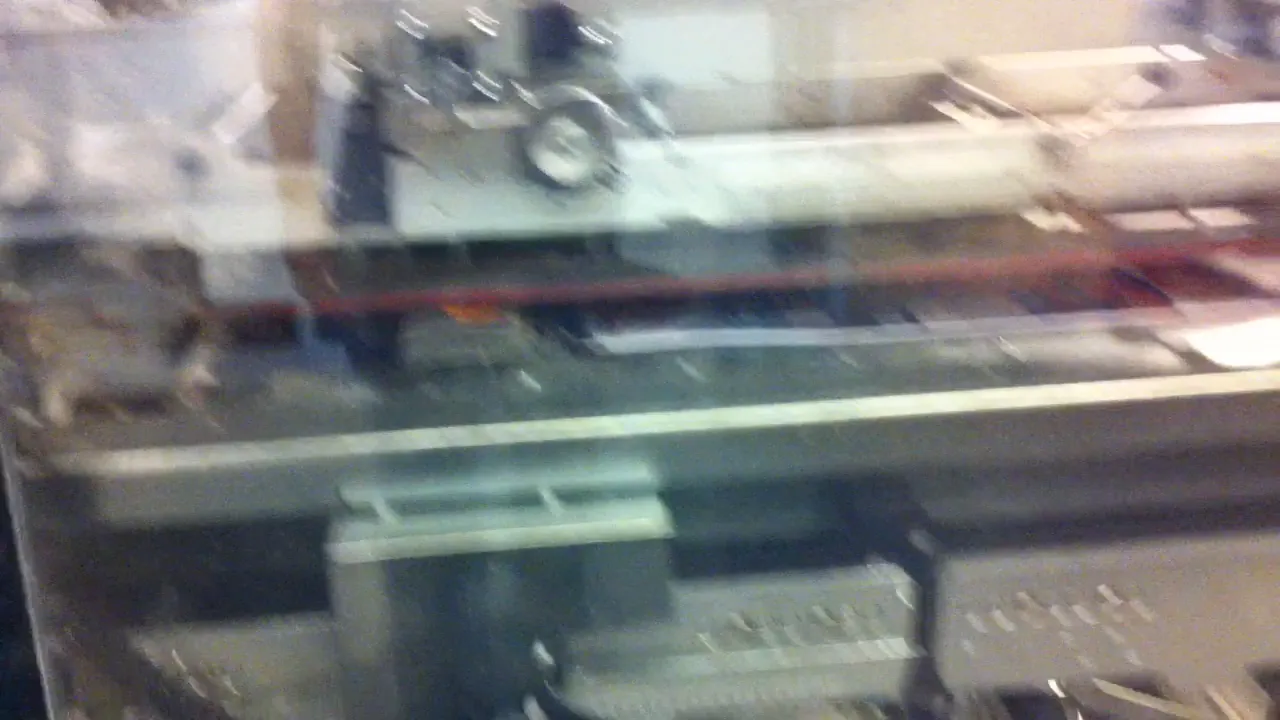
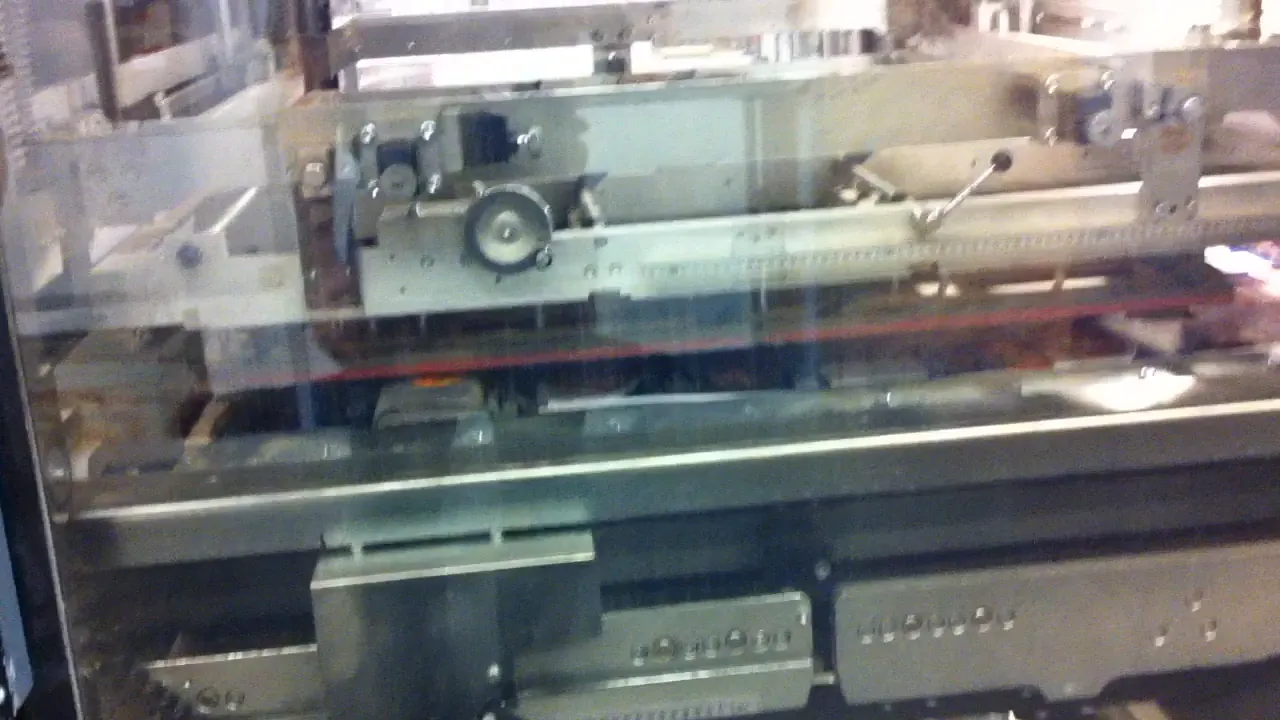
Fix: gate the hero pin to desktop and sharpen the poster frame
Pins are desktop-only now; under 768px motion.js never starts the
ScrollTrigger pin and motion.css never hides a data-step, so phones
without reduced-motion get the three proofs as a static stacked list
under the headline instead of the pinned overlay. The poster frame
moved from the loop's 39s start (motion-blurred, handheld footage) to
41s, the sharpest frame in the 39-47s window by Laplacian variance.

diff --git a/assets/motion.css b/assets/motion.css
@@ -6,10 +6,12 @@ html.motion [data-reveal] { opacity: 0; transform: translateY(24px); }
 html.motion [data-reveal="stagger"] { opacity: 1; transform: none; }
 html.motion [data-reveal="stagger"] > * { opacity: 0; transform: translateY(24px); }
 html.motion [data-count] { font-variant-numeric: tabular-nums; }
-html.motion [data-step] { opacity: 0; transform: translateY(30px); }
+@media (min-width: 768px) { html.motion [data-step] { opacity: 0; transform: translateY(30px); } }
 
 /* The cinematic hero. Without html.motion it is a tall photo hero with the
-   three proofs listed under the headline. */
+   three proofs listed under the headline. Pins are desktop-only (motion.js
+   skips them under 768px too), so under that width nothing here hides a
+   step -- phones always get the static stacked layout. */
 .hero-cinema { min-height: 100svh; align-items: center; }
 .hero-media { position: absolute; inset: -8% 0; overflow: hidden; }
 .hero-media .hero-bg, .hero-media .hero-video { position: absolute; inset: 0; width: 100%; height: 100%; object-fit: cover; }
@@ -22,6 +24,8 @@ html.motion .hero-media .hero-video { opacity: 1; }
 .hero-step h2 { color: #fff; }
 .hero-step p { color: #E6DDD1; font-size: 1.1rem; }
 .hero-step .eyebrow { color: var(--gold); }
-html.motion .hero-steps { position: absolute; inset: 0; display: grid; place-items: center; padding: 0 var(--gutter); pointer-events: none; }
-html.motion .hero-step { grid-area: 1 / 1; text-align: center; }
-@media (max-width: 767px) { .hero-media { inset: 0; } html.motion .hero-step { text-align: left; } }
+@media (min-width: 768px) {
+  html.motion .hero-steps { position: absolute; inset: 0; display: grid; place-items: center; padding: 0 var(--gutter); pointer-events: none; }
+  html.motion .hero-step { grid-area: 1 / 1; text-align: center; }
+}
+@media (max-width: 767px) { .hero-media { inset: 0; } }

diff --git a/about/index.html b/about/index.html
@@ -25,7 +25,7 @@
 <link rel="stylesheet" href="https://fonts.googleapis.com/css2?family=Barlow+Semi+Condensed:wght@500;600;700&family=Inter:wght@400;500;600&display=swap">
 <link rel="stylesheet" href="/assets/site.css?v=7b32dc09">
 <link rel="stylesheet" href="/assets/forms.css?v=53fdd355">
-<link rel="stylesheet" href="/assets/motion.css?v=e68b6b9c">
+<link rel="stylesheet" href="/assets/motion.css?v=392790e9">
 <script>document.documentElement.classList.add("js");window.FORM_ENDPOINT="";window.CONTACT_EMAIL="russell@phoenixautomationsolutions.example";if(/[?&]notes\b/.test(location.search))document.documentElement.classList.add("notes");if(matchMedia("(prefers-reduced-motion: no-preference)").matches)document.documentElement.classList.add("motion")</script>
 </head>
 <body>
@@ -114,6 +114,6 @@
 
 <script src="/assets/nav.js?v=ce182b56" defer></script>
 <script src="/assets/forms.js?v=f34a02c9" defer></script>
-<script>(function(h){if(!h.classList.contains("motion"))return;function off(){h.classList.remove("motion")}["/assets/vendor/gsap.min.js?v=bf3fd8ec","/assets/vendor/ScrollTrigger.min.js?v=5445d0e9","/assets/motion.js?v=d5f51273"].forEach(function(s){var e=document.createElement("script");e.src=s;e.async=false;e.onerror=off;document.body.appendChild(e)});setTimeout(function(){if(!window.__motionReady)off()},4000)})(document.documentElement)</script>
+<script>(function(h){if(!h.classList.contains("motion"))return;function off(){h.classList.remove("motion")}["/assets/vendor/gsap.min.js?v=bf3fd8ec","/assets/vendor/ScrollTrigger.min.js?v=5445d0e9","/assets/motion.js?v=29eb9d4e"].forEach(function(s){var e=document.createElement("script");e.src=s;e.async=false;e.onerror=off;document.body.appendChild(e)});setTimeout(function(){if(!window.__motionReady)off()},4000)})(document.documentElement)</script>
 </body>
 </html>

diff --git a/capabilities/index.html b/capabilities/index.html
@@ -25,7 +25,7 @@
 <link rel="stylesheet" href="https://fonts.googleapis.com/css2?family=Barlow+Semi+Condensed:wght@500;600;700&family=Inter:wght@400;500;600&display=swap">
 <link rel="stylesheet" href="/assets/site.css?v=7b32dc09">
 <link rel="stylesheet" href="/assets/forms.css?v=53fdd355">
-<link rel="stylesheet" href="/assets/motion.css?v=e68b6b9c">
+<link rel="stylesheet" href="/assets/motion.css?v=392790e9">
 <script>document.documentElement.classList.add("js");window.FORM_ENDPOINT="";window.CONTACT_EMAIL="russell@phoenixautomationsolutions.example";if(/[?&]notes\b/.test(location.search))document.documentElement.classList.add("notes");if(matchMedia("(prefers-reduced-motion: no-preference)").matches)document.documentElement.classList.add("motion")</script>
 </head>
 <body>
@@ -117,6 +117,6 @@
 
 <script src="/assets/nav.js?v=ce182b56" defer></script>
 <script src="/assets/forms.js?v=f34a02c9" defer></script>
-<script>(function(h){if(!h.classList.contains("motion"))return;function off(){h.classList.remove("motion")}["/assets/vendor/gsap.min.js?v=bf3fd8ec","/assets/vendor/ScrollTrigger.min.js?v=5445d0e9","/assets/motion.js?v=d5f51273"].forEach(function(s){var e=document.createElement("script");e.src=s;e.async=false;e.onerror=off;document.body.appendChild(e)});setTimeout(function(){if(!window.__motionReady)off()},4000)})(document.documentElement)</script>
+<script>(function(h){if(!h.classList.contains("motion"))return;function off(){h.classList.remove("motion")}["/assets/vendor/gsap.min.js?v=bf3fd8ec","/assets/vendor/ScrollTrigger.min.js?v=5445d0e9","/assets/motion.js?v=29eb9d4e"].forEach(function(s){var e=document.createElement("script");e.src=s;e.async=false;e.onerror=off;document.body.appendChild(e)});setTimeout(function(){if(!window.__motionReady)off()},4000)})(document.documentElement)</script>
 </body>
 </html>

diff --git a/for-oems/index.html b/for-oems/index.html
@@ -25,7 +25,7 @@
 <link rel="stylesheet" href="https://fonts.googleapis.com/css2?family=Barlow+Semi+Condensed:wght@500;600;700&family=Inter:wght@400;500;600&display=swap">
 <link rel="stylesheet" href="/assets/site.css?v=7b32dc09">
 <link rel="stylesheet" href="/assets/forms.css?v=53fdd355">
-<link rel="stylesheet" href="/assets/motion.css?v=e68b6b9c">
+<link rel="stylesheet" href="/assets/motion.css?v=392790e9">
 <script>document.documentElement.classList.add("js");window.FORM_ENDPOINT="";window.CONTACT_EMAIL="russell@phoenixautomationsolutions.example";if(/[?&]notes\b/.test(location.search))document.documentElement.classList.add("notes");if(matchMedia("(prefers-reduced-motion: no-preference)").matches)document.documentElement.classList.add("motion")</script>
 </head>
 <body>
@@ -152,6 +152,6 @@
 
 <script src="/assets/nav.js?v=ce182b56" defer></script>
 <script src="/assets/forms.js?v=f34a02c9" defer></script>
-<script>(function(h){if(!h.classList.contains("motion"))return;function off(){h.classList.remove("motion")}["/assets/vendor/gsap.min.js?v=bf3fd8ec","/assets/vendor/ScrollTrigger.min.js?v=5445d0e9","/assets/motion.js?v=d5f51273"].forEach(function(s){var e=document.createElement("script");e.src=s;e.async=false;e.onerror=off;document.body.appendChild(e)});setTimeout(function(){if(!window.__motionReady)off()},4000)})(document.documentElement)</script>
+<script>(function(h){if(!h.classList.contains("motion"))return;function off(){h.classList.remove("motion")}["/assets/vendor/gsap.min.js?v=bf3fd8ec","/assets/vendor/ScrollTrigger.min.js?v=5445d0e9","/assets/motion.js?v=29eb9d4e"].forEach(function(s){var e=document.createElement("script");e.src=s;e.async=false;e.onerror=off;document.body.appendChild(e)});setTimeout(function(){if(!window.__motionReady)off()},4000)})(document.documentElement)</script>
 </body>
 </html>

diff --git a/index.html b/index.html
@@ -26,7 +26,7 @@
 <link rel="stylesheet" href="https://fonts.googleapis.com/css2?family=Barlow+Semi+Condensed:wght@500;600;700&family=Inter:wght@400;500;600&display=swap">
 <link rel="stylesheet" href="/assets/site.css?v=7b32dc09">
 <link rel="stylesheet" href="/assets/forms.css?v=53fdd355">
-<link rel="stylesheet" href="/assets/motion.css?v=e68b6b9c">
+<link rel="stylesheet" href="/assets/motion.css?v=392790e9">
 <script>document.documentElement.classList.add("js");window.FORM_ENDPOINT="";window.CONTACT_EMAIL="russell@phoenixautomationsolutions.example";if(/[?&]notes\b/.test(location.search))document.documentElement.classList.add("notes");if(matchMedia("(prefers-reduced-motion: no-preference)").matches)document.documentElement.classList.add("motion")</script>
 </head>
 <body>
@@ -179,6 +179,6 @@
 
 <script src="/assets/nav.js?v=ce182b56" defer></script>
 <script src="/assets/forms.js?v=f34a02c9" defer></script>
-<script>(function(h){if(!h.classList.contains("motion"))return;function off(){h.classList.remove("motion")}["/assets/vendor/gsap.min.js?v=bf3fd8ec","/assets/vendor/ScrollTrigger.min.js?v=5445d0e9","/assets/motion.js?v=d5f51273"].forEach(function(s){var e=document.createElement("script");e.src=s;e.async=false;e.onerror=off;document.body.appendChild(e)});setTimeout(function(){if(!window.__motionReady)off()},4000)})(document.documentElement)</script>
+<script>(function(h){if(!h.classList.contains("motion"))return;function off(){h.classList.remove("motion")}["/assets/vendor/gsap.min.js?v=bf3fd8ec","/assets/vendor/ScrollTrigger.min.js?v=5445d0e9","/assets/motion.js?v=29eb9d4e"].forEach(function(s){var e=document.createElement("script");e.src=s;e.async=false;e.onerror=off;document.body.appendChild(e)});setTimeout(function(){if(!window.__motionReady)off()},4000)})(document.documentElement)</script>
 </body>
 </html>

diff --git a/industries/index.html b/industries/index.html
@@ -25,7 +25,7 @@
 <link rel="stylesheet" href="https://fonts.googleapis.com/css2?family=Barlow+Semi+Condensed:wght@500;600;700&family=Inter:wght@400;500;600&display=swap">
 <link rel="stylesheet" href="/assets/site.css?v=7b32dc09">
 <link rel="stylesheet" href="/assets/forms.css?v=53fdd355">
-<link rel="stylesheet" href="/assets/motion.css?v=e68b6b9c">
+<link rel="stylesheet" href="/assets/motion.css?v=392790e9">
 <script>document.documentElement.classList.add("js");window.FORM_ENDPOINT="";window.CONTACT_EMAIL="russell@phoenixautomationsolutions.example";if(/[?&]notes\b/.test(location.search))document.documentElement.classList.add("notes");if(matchMedia("(prefers-reduced-motion: no-preference)").matches)document.documentElement.classList.add("motion")</script>
 </head>
 <body>
@@ -117,6 +117,6 @@
 
 <script src="/assets/nav.js?v=ce182b56" defer></script>
 <script src="/assets/forms.js?v=f34a02c9" defer></script>
-<script>(function(h){if(!h.classList.contains("motion"))return;function off(){h.classList.remove("motion")}["/assets/vendor/gsap.min.js?v=bf3fd8ec","/assets/vendor/ScrollTrigger.min.js?v=5445d0e9","/assets/motion.js?v=d5f51273"].forEach(function(s){var e=document.createElement("script");e.src=s;e.async=false;e.onerror=off;document.body.appendChild(e)});setTimeout(function(){if(!window.__motionReady)off()},4000)})(document.documentElement)</script>
+<script>(function(h){if(!h.classList.contains("motion"))return;function off(){h.classList.remove("motion")}["/assets/vendor/gsap.min.js?v=bf3fd8ec","/assets/vendor/ScrollTrigger.min.js?v=5445d0e9","/assets/motion.js?v=29eb9d4e"].forEach(function(s){var e=document.createElement("script");e.src=s;e.async=false;e.onerror=off;document.body.appendChild(e)});setTimeout(function(){if(!window.__motionReady)off()},4000)})(document.documentElement)</script>
 </body>
 </html>

diff --git a/start/index.html b/start/index.html
@@ -25,7 +25,7 @@
 <link rel="stylesheet" href="https://fonts.googleapis.com/css2?family=Barlow+Semi+Condensed:wght@500;600;700&family=Inter:wght@400;500;600&display=swap">
 <link rel="stylesheet" href="/assets/site.css?v=7b32dc09">
 <link rel="stylesheet" href="/assets/forms.css?v=53fdd355">
-<link rel="stylesheet" href="/assets/motion.css?v=e68b6b9c">
+<link rel="stylesheet" href="/assets/motion.css?v=392790e9">
 <script>document.documentElement.classList.add("js");window.FORM_ENDPOINT="";window.CONTACT_EMAIL="russell@phoenixautomationsolutions.example";if(/[?&]notes\b/.test(location.search))document.documentElement.classList.add("notes");if(matchMedia("(prefers-reduced-motion: no-preference)").matches)document.documentElement.classList.add("motion")</script>
 </head>
 <body>
@@ -137,6 +137,6 @@
 
 <script src="/assets/nav.js?v=ce182b56" defer></script>
 <script src="/assets/forms.js?v=f34a02c9" defer></script>
-<script>(function(h){if(!h.classList.contains("motion"))return;function off(){h.classList.remove("motion")}["/assets/vendor/gsap.min.js?v=bf3fd8ec","/assets/vendor/ScrollTrigger.min.js?v=5445d0e9","/assets/motion.js?v=d5f51273"].forEach(function(s){var e=document.createElement("script");e.src=s;e.async=false;e.onerror=off;document.body.appendChild(e)});setTimeout(function(){if(!window.__motionReady)off()},4000)})(document.documentElement)</script>
+<script>(function(h){if(!h.classList.contains("motion"))return;function off(){h.classList.remove("motion")}["/assets/vendor/gsap.min.js?v=bf3fd8ec","/assets/vendor/ScrollTrigger.min.js?v=5445d0e9","/assets/motion.js?v=29eb9d4e"].forEach(function(s){var e=document.createElement("script");e.src=s;e.async=false;e.onerror=off;document.body.appendChild(e)});setTimeout(function(){if(!window.__motionReady)off()},4000)})(document.documentElement)</script>
 </body>
 </html>

diff --git a/404.html b/404.html
@@ -25,7 +25,7 @@
 <link rel="stylesheet" href="https://fonts.googleapis.com/css2?family=Barlow+Semi+Condensed:wght@500;600;700&family=Inter:wght@400;500;600&display=swap">
 <link rel="stylesheet" href="/assets/site.css?v=7b32dc09">
 <link rel="stylesheet" href="/assets/forms.css?v=53fdd355">
-<link rel="stylesheet" href="/assets/motion.css?v=e68b6b9c">
+<link rel="stylesheet" href="/assets/motion.css?v=392790e9">
 <script>document.documentElement.classList.add("js");window.FORM_ENDPOINT="";window.CONTACT_EMAIL="russell@phoenixautomationsolutions.example";if(/[?&]notes\b/.test(location.search))document.documentElement.classList.add("notes");</script>
 </head>
 <body>

diff --git a/pack-expo/index.html b/pack-expo/index.html
@@ -25,7 +25,7 @@
 <link rel="stylesheet" href="https://fonts.googleapis.com/css2?family=Barlow+Semi+Condensed:wght@500;600;700&family=Inter:wght@400;500;600&display=swap">
 <link rel="stylesheet" href="/assets/site.css?v=7b32dc09">
 <link rel="stylesheet" href="/assets/forms.css?v=53fdd355">
-<link rel="stylesheet" href="/assets/motion.css?v=e68b6b9c">
+<link rel="stylesheet" href="/assets/motion.css?v=392790e9">
 <script>document.documentElement.classList.add("js");window.FORM_ENDPOINT="";window.CONTACT_EMAIL="russell@phoenixautomationsolutions.example";if(/[?&]notes\b/.test(location.search))document.documentElement.classList.add("notes");</script>
 </head>
 <body>

diff --git a/assets/motion.js b/assets/motion.js
@@ -54,6 +54,7 @@
 
   // ---- pinned sequences
   $$("[data-pin]").forEach(function (section) {
+    if (!matchMedia("(min-width: 768px)").matches) return; // pins are desktop-only; phones get the static stacked layout
     var steps = $$("[data-step]", section);
     if (!steps.length) return;
     var length = parseFloat(section.getAttribute("data-pin-length")) || 2;

diff --git a/_tools/cut_images.py b/_tools/cut_images.py
@@ -73,7 +73,7 @@ def ffmpeg():
     return imageio_ffmpeg.get_ffmpeg_exe()
 
 
-def cut_video(src, out_dir, name, start, seconds, width=1280):
+def cut_video(src, out_dir, name, start, seconds, width=1280, poster_at=None):
     os.makedirs(out_dir, exist_ok=True)
     common = [ffmpeg(), "-y", "-ss", str(start), "-t", str(seconds), "-i", src,
               "-vf", "scale=%d:-2,fps=24" % width, "-an"]
@@ -83,8 +83,8 @@ def cut_video(src, out_dir, name, start, seconds, width=1280):
     subprocess.run(common + ["-c:v", "libvpx-vp9", "-b:v", "0", "-crf", "36", "-row-mt", "1", webm], check=True)
     subprocess.run(common + ["-c:v", "libx264", "-crf", "27", "-preset", "slow", "-pix_fmt", "yuv420p",
                              "-movflags", "+faststart", mp4], check=True)
-    subprocess.run([ffmpeg(), "-y", "-ss", str(start), "-i", src, "-frames:v", "1",
-                    "-vf", "scale=%d:-2" % width, poster_png], check=True)
+    subprocess.run([ffmpeg(), "-y", "-ss", str(poster_at if poster_at is not None else start), "-i", src,
+                    "-frames:v", "1", "-vf", "scale=%d:-2" % width, poster_png], check=True)
     poster = os.path.join(out_dir, name + "-poster.webp")
     Image.open(poster_png).convert("RGB").save(poster, "WEBP", quality=80, method=6)
     os.remove(poster_png)
@@ -101,7 +101,8 @@ def run(picks_path=PICKS, images=True, video=True, og=True):
                 print("wrote", os.path.relpath(path, ROOT), os.path.getsize(path) // 1024, "KB")
     if video and picks.get("video"):
         v = picks["video"]
-        for path in cut_video(os.path.join(ORIGINALS, v["src"]), VIDEO, v["name"], v["start"], v["seconds"]):
+        for path in cut_video(os.path.join(ORIGINALS, v["src"]), VIDEO, v["name"], v["start"], v["seconds"],
+                               poster_at=v.get("poster_at")):
             print("wrote", os.path.relpath(path, ROOT), os.path.getsize(path) // 1024, "KB")
     if og and picks.get("og"):
         o = picks["og"]

diff --git a/tests/test_cut_images.py b/tests/test_cut_images.py
@@ -61,3 +61,9 @@ def test_slug():
     t = load_tool()
     assert t.slug("Elevator Glass Cab Operator Panel") == "elevator-glass-cab-operator-panel"
     assert t.slug("Photo Aug 08, 11 36 48 AM.jpg") == "photo-aug-08-11-36-48-am"
+
+
+def test_cut_video_accepts_poster_at():
+    import inspect
+    t = load_tool()
+    assert "poster_at" in inspect.signature(t.cut_video).parameters
